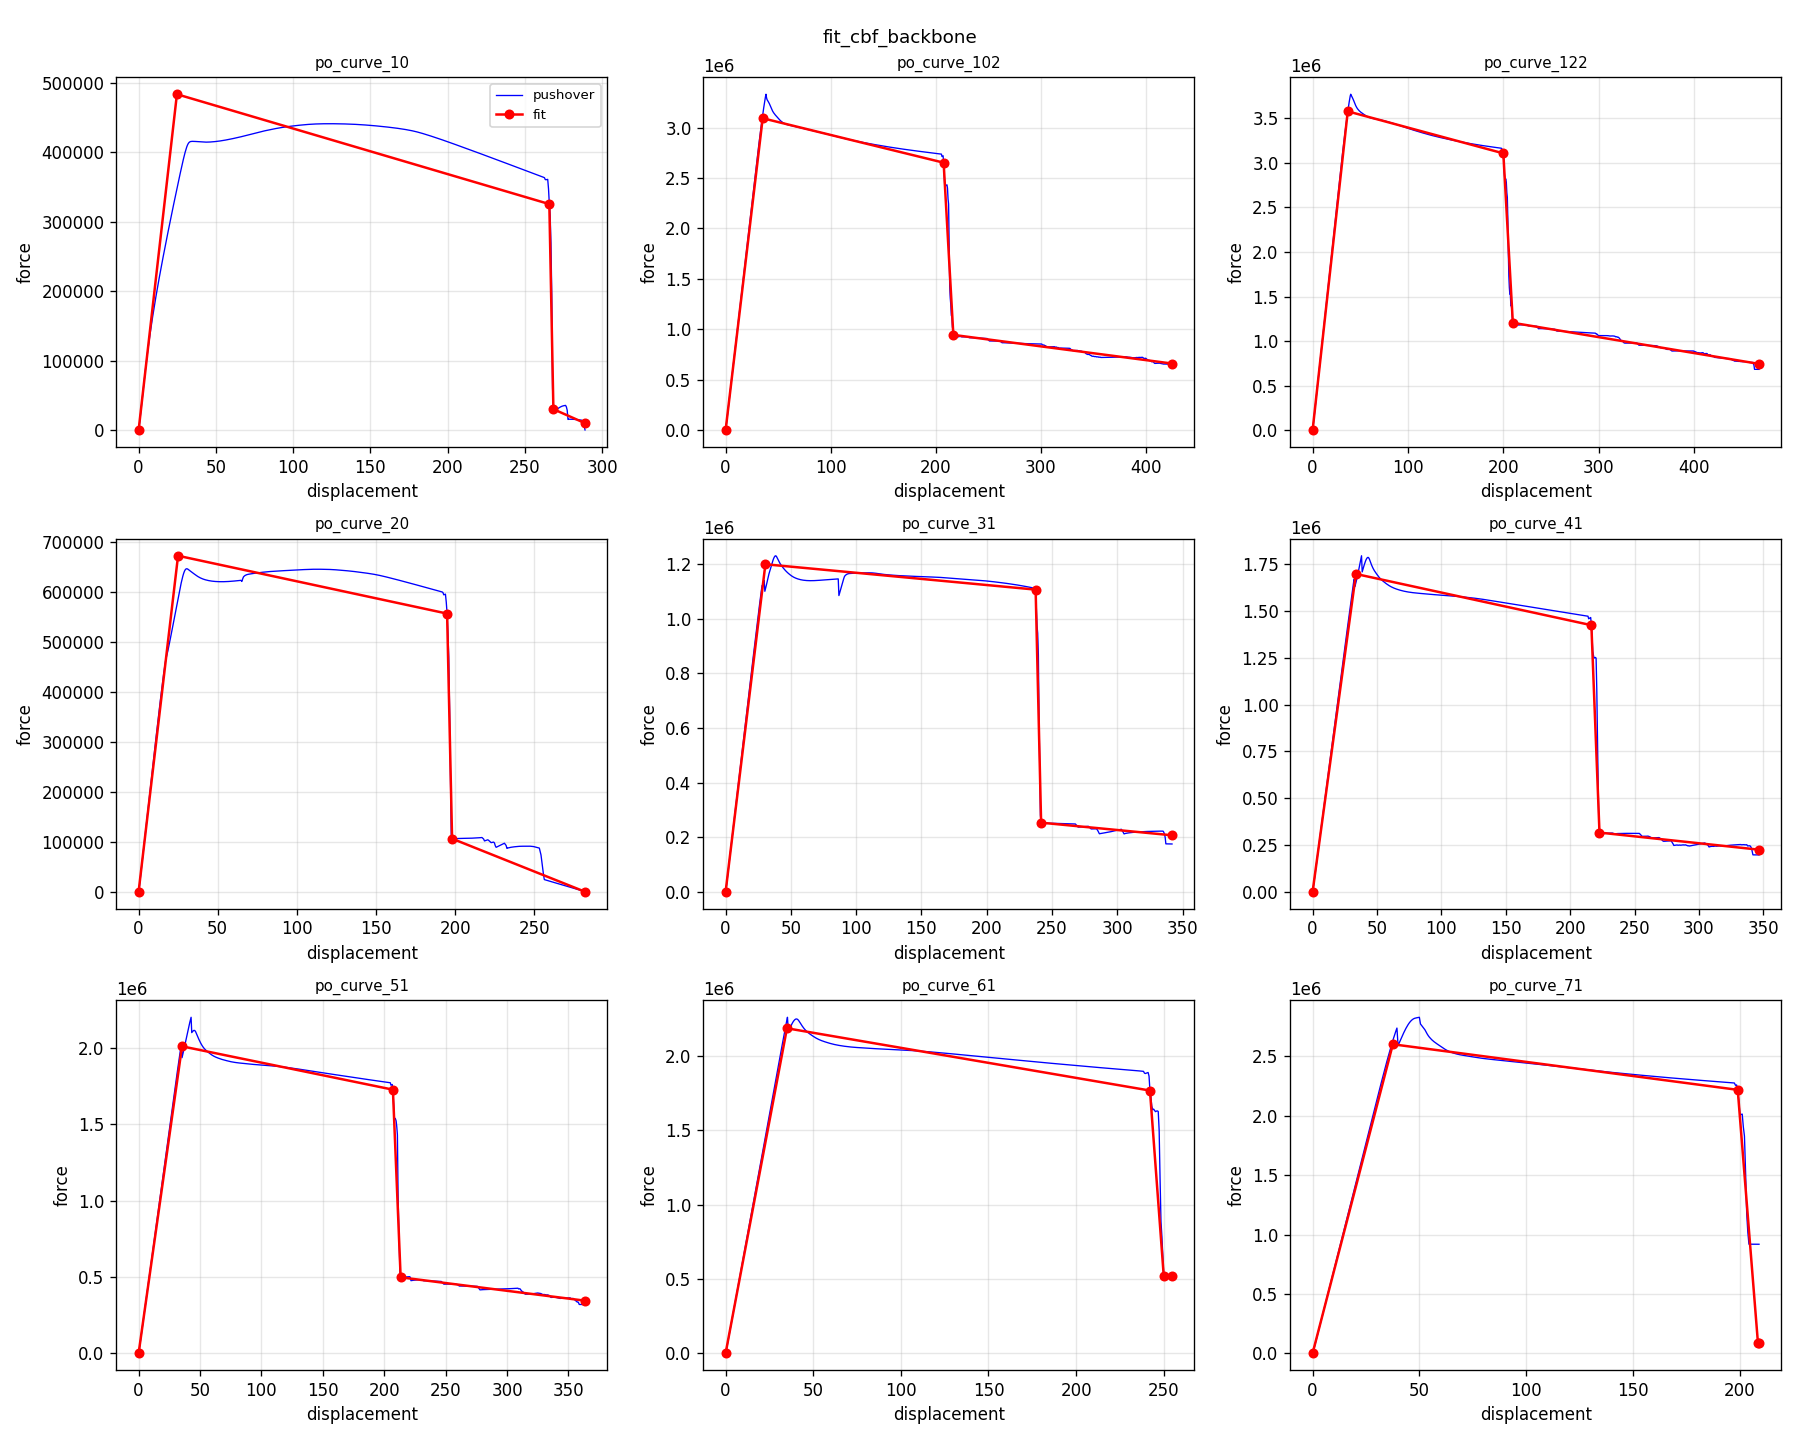
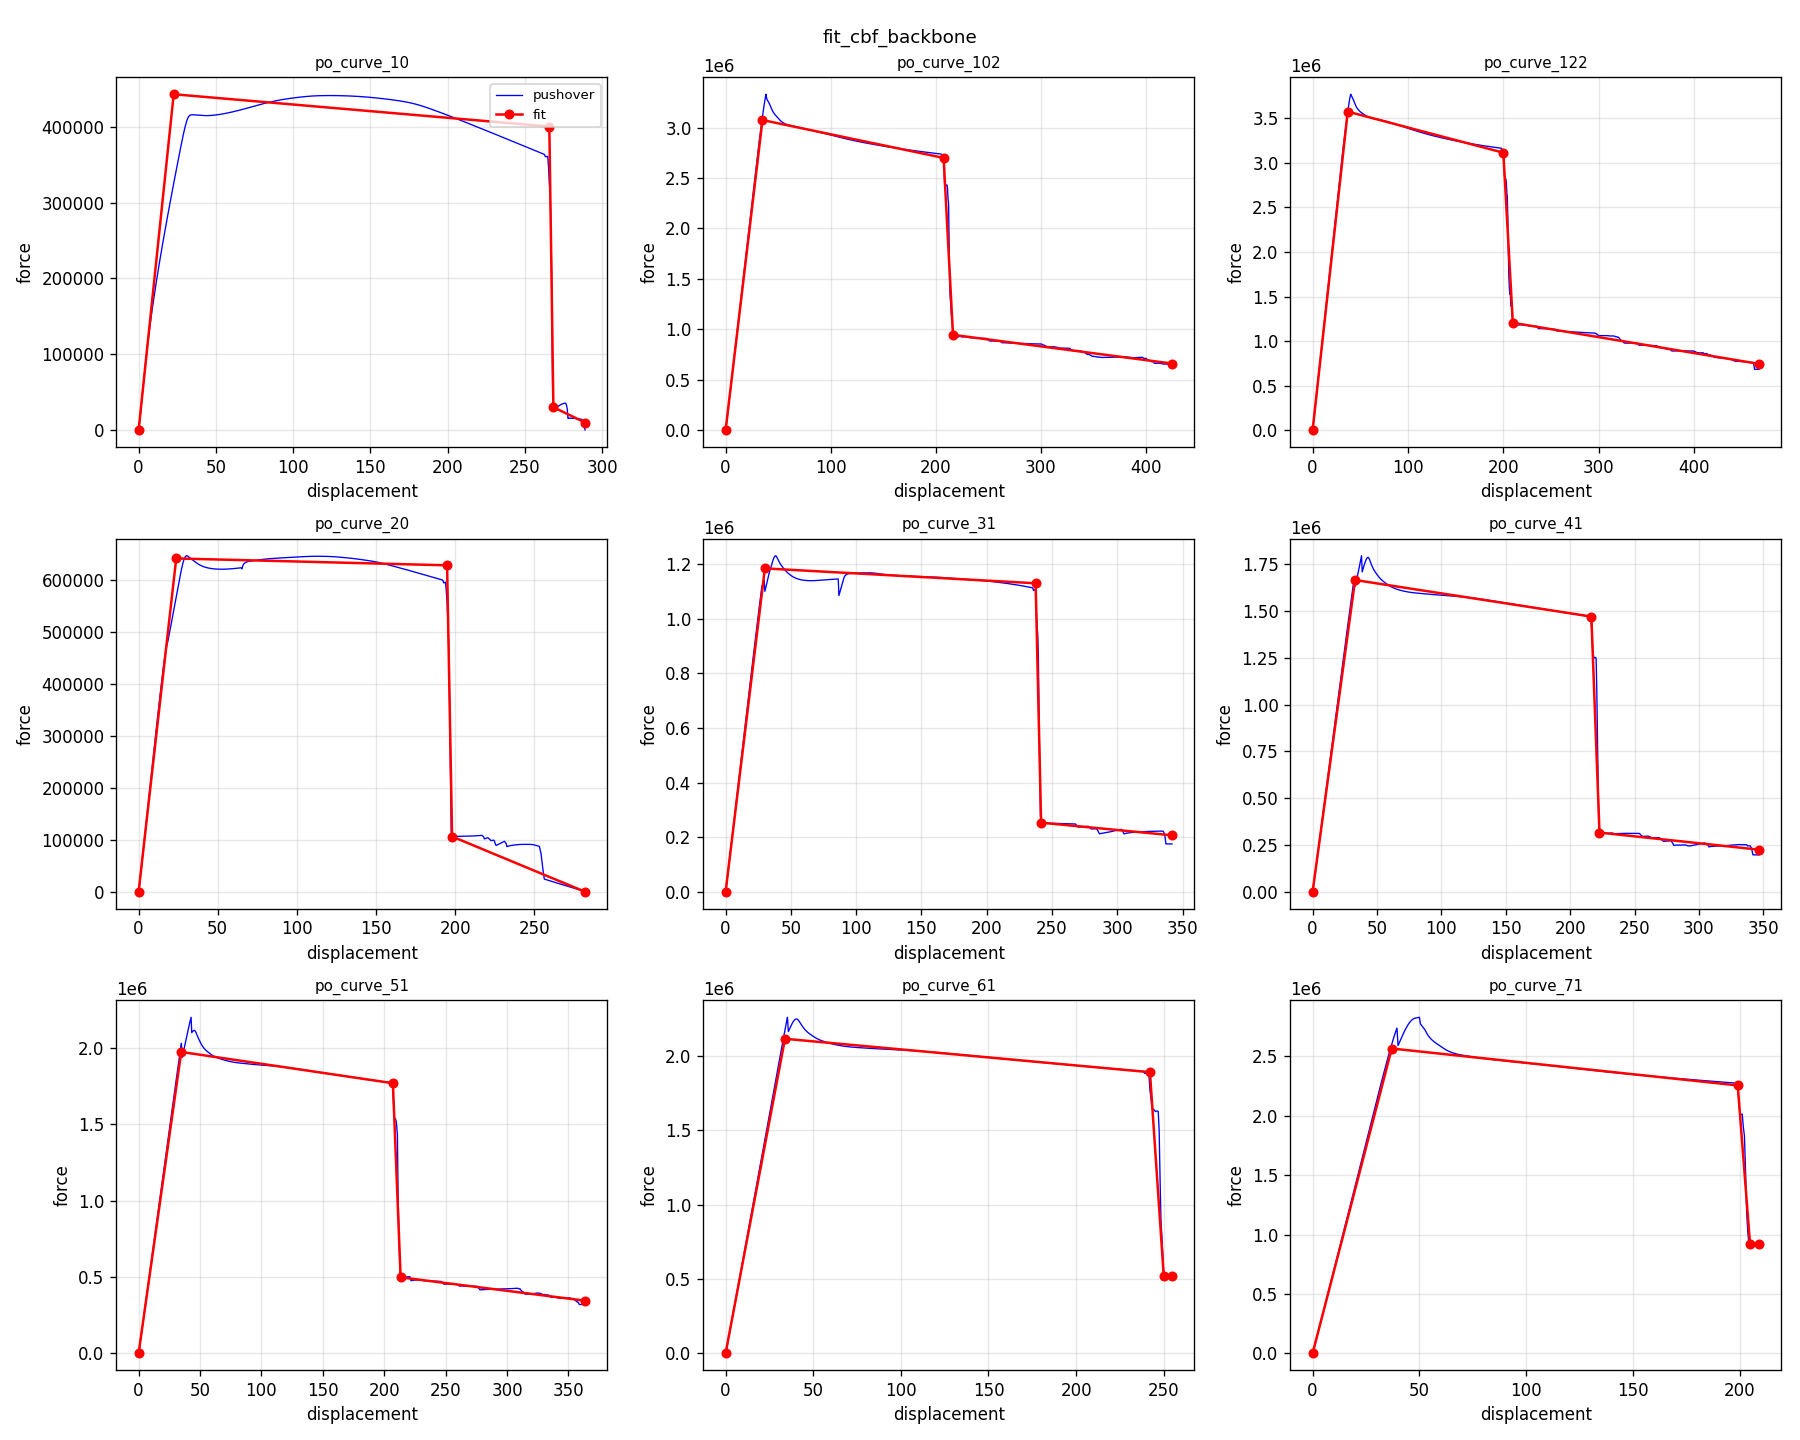
Update rule for anchoring point r

diff --git a/src/fitpo/cbf_fitting.py b/src/fitpo/cbf_fitting.py
@@ -68,14 +68,11 @@ def fit_cbf_backbone(
 
     d_f, f_f = float(d[i_f]), float(f[i_f])
     d_r, f_r = float(d[i_r]), float(f[i_r])
-    k_drop = (f_r - f_f) / max(d_r - d_f, 1e-9)
 
     _k_pb, d_y, f_y, d_joint, f_joint = _fit_post_buckling(
-        d, f, d_f, f_f, d_r, k_drop, k_e,
+        d, f, d_f, f_f, d_r, f_r, k_e, f_peak,
     )
-    _k_r, d_r2, f_r2, f_end = _fit_residual(
-        d, f, d_f, f_f, k_drop, d_r, d_max,
-    )
+    _k_r, d_r2, f_r2, f_end = _fit_residual(d, f, d_r, f_r, d_max)
 
     return np.asarray(
         [[0.0, 0.0], [d_y, f_y], [d_joint, f_joint], [d_r2, f_r2], [d_max, f_end]],
@@ -227,28 +224,35 @@ def _fit_post_buckling(
     d_f: float,
     f_f: float,
     d_r: float,
-    k_drop: float,
+    f_r: float,
     k_e: float,
+    f_peak: float,
 ) -> tuple[float, float, float, float, float]:
-    """Slide d_joint along the drop line; inner k_pb pinned at (d_joint, f_joint).
+    """Free f_joint fitting; d_joint = d_f fixed.
 
-    Returns (k_pb, d_y, f_y, d_joint, f_joint).
+    Outer Brent over f_joint in (f_r, 1.5*f_peak); minimises combined
+    segment-2 + segment-3 absolute area error.
+
+    Returns (k_pb, d_y, f_y, d_joint=d_f, f_joint).
     """
-    if d_r <= d_f:
-        f_joint = f_f
-        d_joint = d_f
-        k_pb, d_y, f_y, _ = _fit_kpb_at(d, f, d_joint, f_joint, k_e)
-        return k_pb, d_y, f_y, d_joint, f_joint
+    f_joint_max = 1.5 * f_peak
+    f_joint_min = f_r + 1e-6
 
-    def outer_obj(d_joint: float) -> float:
-        f_joint = f_f + k_drop * (d_joint - d_f)
-        return _fit_kpb_at(d, f, d_joint, f_joint, k_e)[3]
+    if f_joint_min >= f_joint_max:
+        k_pb, d_y, f_y, _ = _fit_kpb_at(d, f, d_f, f_r, k_e)
+        return k_pb, d_y, f_y, d_f, f_r
 
-    res = minimize_scalar(outer_obj, bounds=(d_f, d_r), method="bounded")
-    d_joint = float(res.x)
-    f_joint = f_f + k_drop * (d_joint - d_f)
-    k_pb, d_y, f_y, _ = _fit_kpb_at(d, f, d_joint, f_joint, k_e)
-    return k_pb, d_y, f_y, d_joint, f_joint
+    def outer_obj(f_joint: float) -> float:
+        k3 = (f_r - f_joint) / max(d_r - d_f, 1e-9)
+        k_pb, _d_y, _f_y, area2 = _fit_kpb_at(d, f, d_f, f_joint, k_e)
+        mask = (d >= d_f) & (d <= d_r)
+        area3 = _area_error(d[mask], f[mask], f_joint + k3 * (d[mask] - d_f)) if bool(mask.any()) else 0.0
+        return area2 + area3
+
+    res = minimize_scalar(outer_obj, bounds=(f_joint_min, f_joint_max), method="bounded")
+    f_joint = float(res.x)
+    k_pb, d_y, f_y, _ = _fit_kpb_at(d, f, d_f, f_joint, k_e)
+    return k_pb, d_y, f_y, d_f, f_joint
 
 
 def _fit_kr_at(
@@ -282,38 +286,22 @@ def _fit_kr_at(
 def _fit_residual(
     d: FloatArr,
     f: FloatArr,
-    d_f: float,
-    f_f: float,
-    k_drop: float,
     d_r: float,
+    f_r: float,
     d_max: float,
 ) -> tuple[float, float, float, float]:
-    """Slide d_r2 along the drop line; inner k_r ≤ 0 pinned at (d_r2, f_r2).
+    """Vertical sliding: d_r2 = d_r fixed, f_r2 free in (1e-6, f_r).
 
-    Returns (k_r, d_r2, f_r2, f_end).
+    Outer Brent over f_r2; inner k_r <= 0 from _fit_kr_at.
+    Returns (k_r, d_r2=d_r, f_r2, f_end).
     """
-    # Upper bound for d_r2: cap where the drop line crosses zero so the inner
-    # residual fit always sees f_r2 > 0.
-    if k_drop < 0.0:
-        d_zero = d_f - f_f / k_drop
-        d_r2_max = min(d_max, d_zero)
-    else:
-        d_r2_max = d_max
+    if f_r <= 1e-6 or d_max <= d_r + 1e-9:
+        return 0.0, d_r, f_r, f_r
 
-    if d_r2_max <= d_r + 1e-9:
-        d_r2 = d_r
-        f_r2 = f_f + k_drop * (d_r2 - d_f)
-        if d_max <= d_r2:
-            return 0.0, d_r2, f_r2, f_r2
-        k_r, f_end, _ = _fit_kr_at(d, f, d_r2, f_r2, d_max)
-        return k_r, d_r2, f_r2, f_end
+    def outer_obj(f_r2: float) -> float:
+        return _fit_kr_at(d, f, d_r, f_r2, d_max)[2]
 
-    def outer_obj(d_r2: float) -> float:
-        f_r2 = f_f + k_drop * (d_r2 - d_f)
-        return _fit_kr_at(d, f, d_r2, f_r2, d_max)[2]
-
-    res = minimize_scalar(outer_obj, bounds=(d_r, d_r2_max), method="bounded")
-    d_r2 = float(res.x)
-    f_r2 = f_f + k_drop * (d_r2 - d_f)
-    k_r, f_end, _ = _fit_kr_at(d, f, d_r2, f_r2, d_max)
-    return k_r, d_r2, f_r2, f_end
+    res = minimize_scalar(outer_obj, bounds=(1e-6, f_r - 1e-6), method="bounded")
+    f_r2 = float(res.x)
+    k_r, f_end, _ = _fit_kr_at(d, f, d_r, f_r2, d_max)
+    return k_r, d_r, f_r2, f_end
